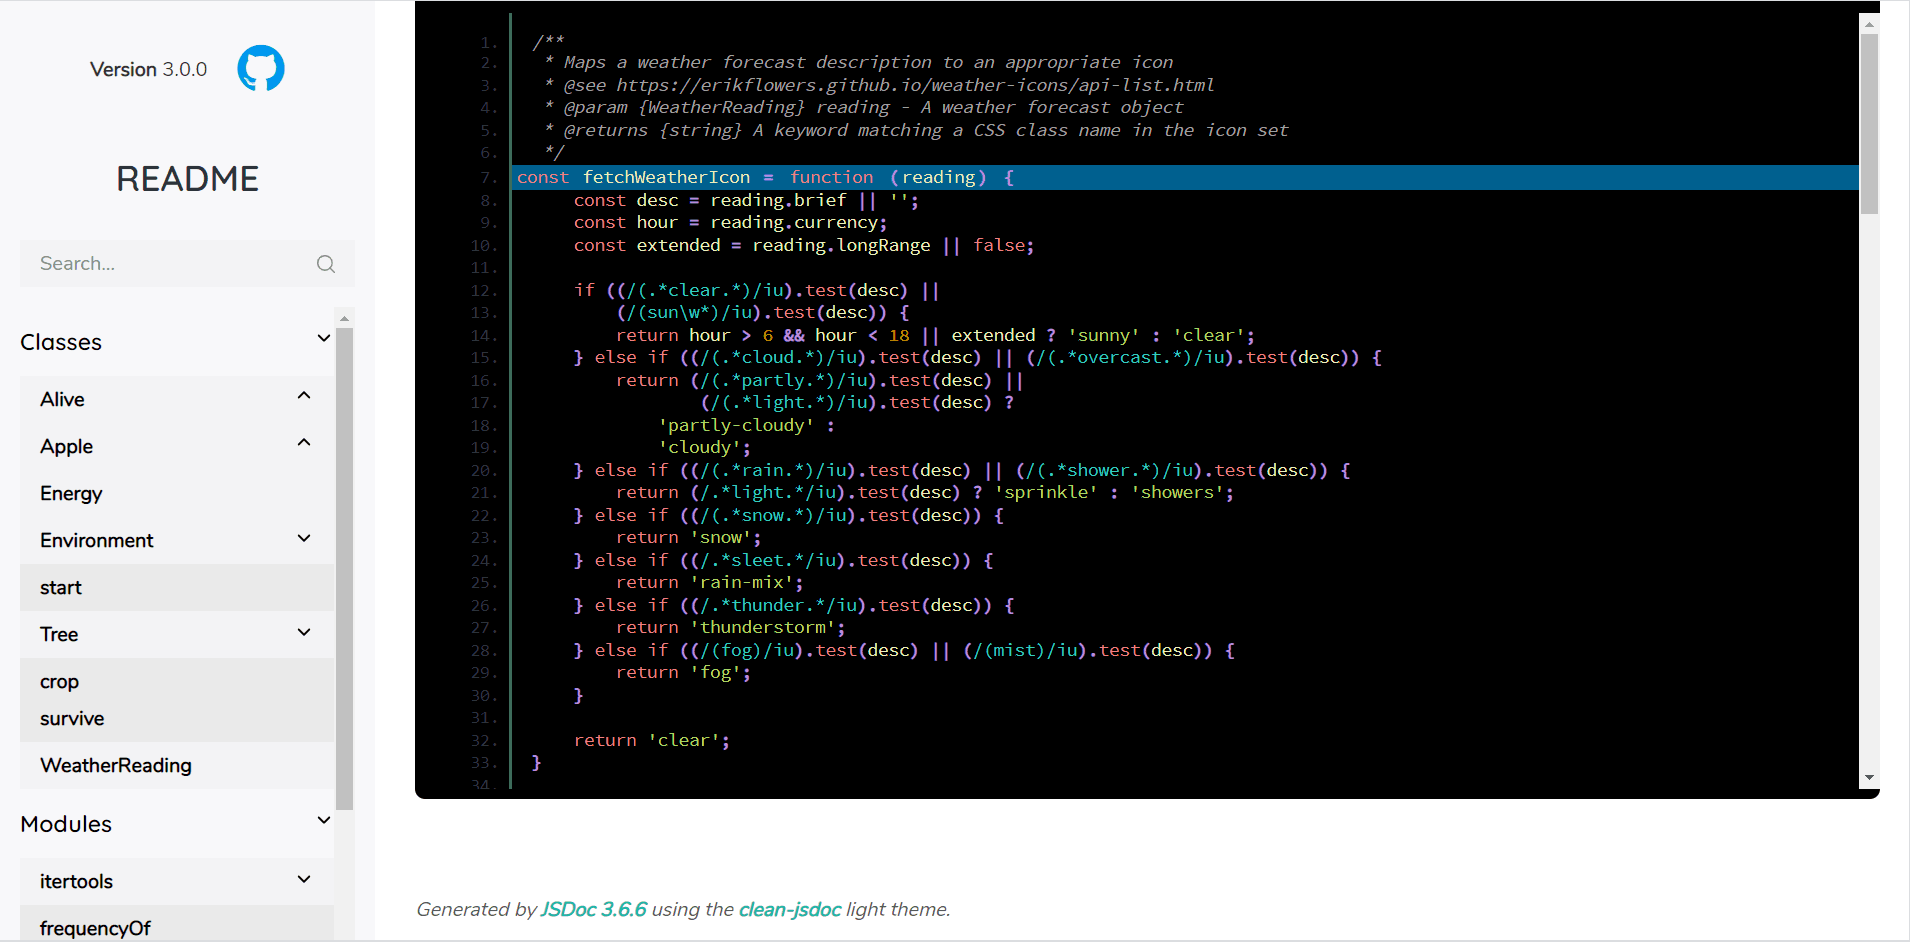
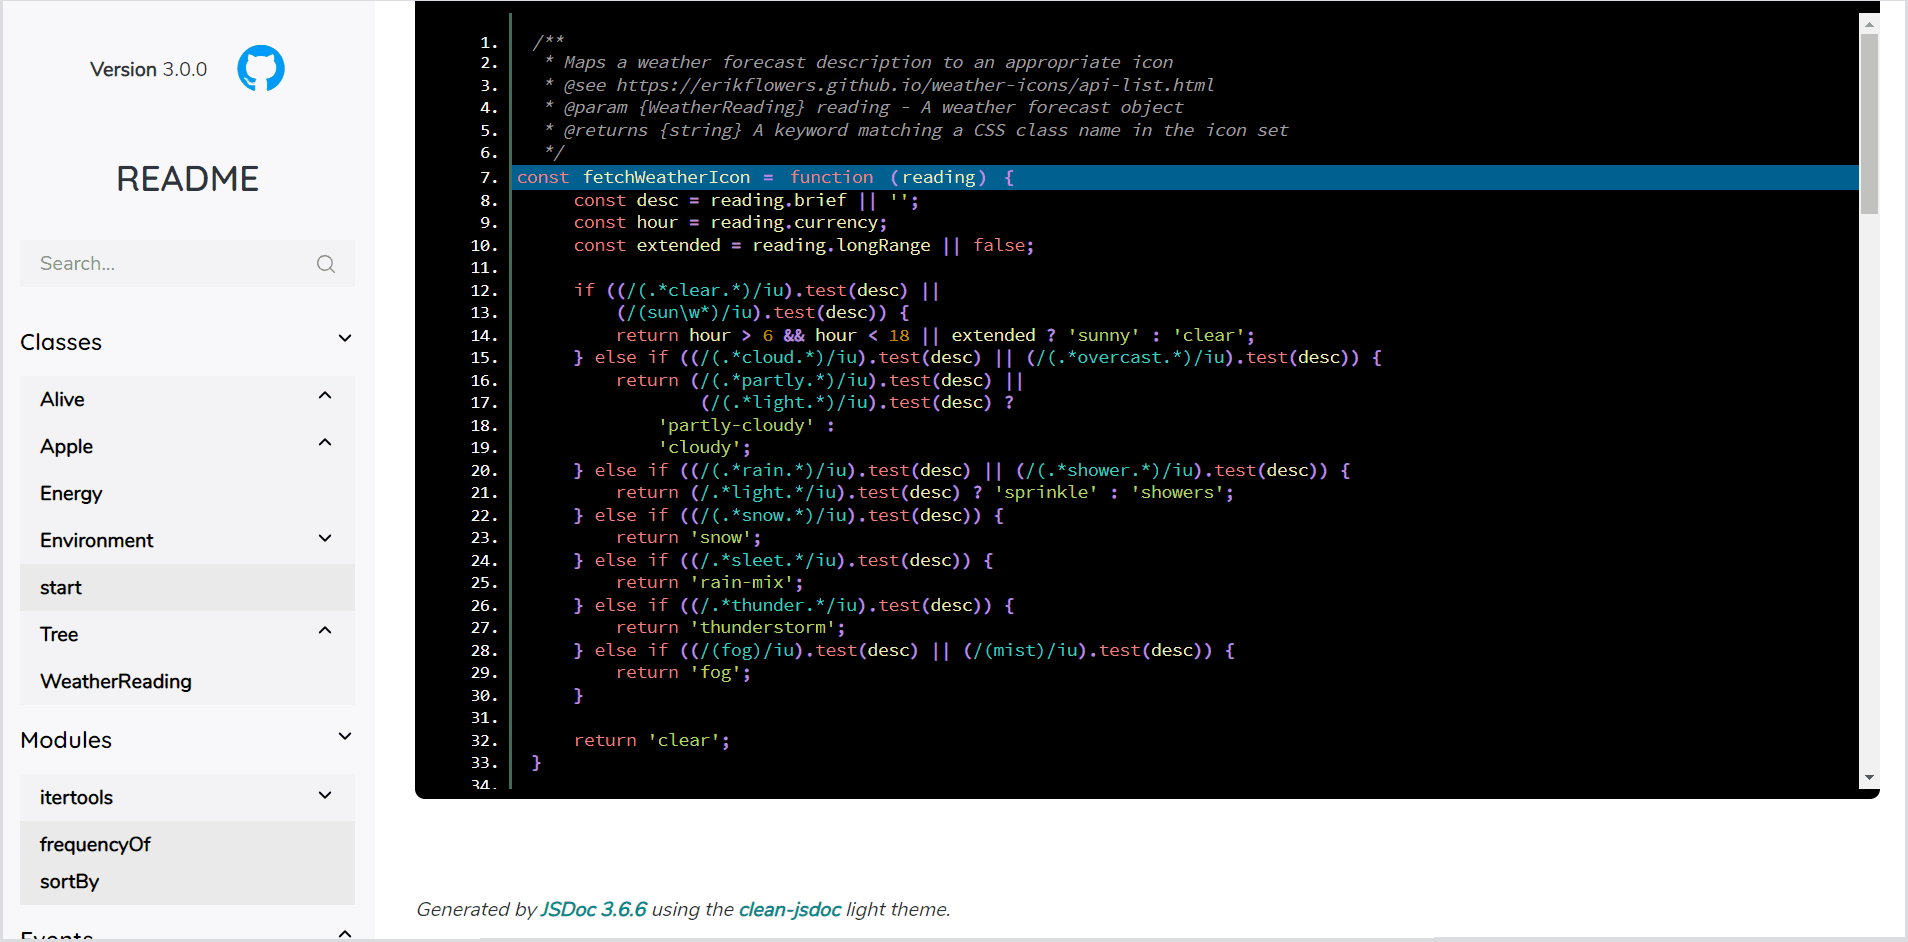
Release 3.0.1

diff --git a/static/styles/jsdoc-default.css b/static/styles/jsdoc-default.css
@@ -78,7 +78,7 @@ p {
     margin: 1rem 0;
 }
 
-article ul {
+article ul, .lone-param p {
     padding-left: 1rem;
 }
 
@@ -86,7 +86,7 @@ article ul:not(.see-links) {
     list-style: none;
 }
 
-article ul li::before {
+article ul li::before, .lone-param p::before {
     content: '\2014\a0';
     margin-right: 0.5rem;
 }
@@ -104,9 +104,9 @@ article ol {
 }
 
 .signature-attributes {
-    font-size: 60%;
     font-style: italic;
     font-weight: lighter;
+    padding-left: 0.2rem;
 }
 
 .ancestors a {
@@ -210,7 +210,6 @@ article ol {
 .code-caption {
     font-size: 107%;
     font-style: italic;
-    margin: 0;
 }
 
 .prettyprint {
@@ -220,6 +219,10 @@ article ol {
     overflow: auto;
     padding-top: 0.5rem;
     padding-bottom: 0.5rem;
+}
+
+.prettyprint.source, .prettyprint code {
+    background-color: #000;
 }
 
 .prettyprint.source {
@@ -268,6 +271,7 @@ article ol {
 }
 
 .prettyprint.linenums li {
+    color: #f8f8f9;
     min-height: 18px;
 }
 
@@ -325,6 +329,10 @@ article ol {
     white-space: nowrap;
 }
 
+.params td.description h4, .params td.description h5, .params td.description h6 {
+    margin-left: 0;
+}
+
 .params td.description>p:first-child, .props td.description>p:first-child {
     margin-top: 0;
     padding-top: 0;
@@ -348,11 +356,6 @@ dl.param-type {
 .param-type dd {
     font-family: 'code';
     font-size: 80%;
-}
-
-.lone-param {
-    display: block;
-    font-family: 'code';
 }
 
 code {

diff --git a/publish.js b/publish.js
@@ -497,10 +497,9 @@ function buildMemberNav(items, itemHeading, itemsSeen, linktoFn) {
                  */
                 const accordionClassName = methods.length ? '"accordion collapsed child"' : '"accordion-list"';
                 const accordionId = Math.floor(Math.random() * 10000000);
+                const linkTitle = linktoFn(item.longname, item.name.replace(/^(module:)/iu, ''));
 
                 itemsNav += `<li class=${accordionClassName} id=${accordionId}>`;
-
-                const linkTitle = linktoFn(item.longname, item.name.replace(/^module:/iu, ''));
 
                 if (methods.length) {
                     itemsNav += `<div class="accordion-heading child">${
@@ -524,8 +523,9 @@ function buildMemberNav(items, itemHeading, itemsSeen, linktoFn) {
                     methods.forEach(method => {
                         let name = method.longname.split('#');
                         const [first, last] = name;
+                        const identifier = last ? ` &rtrif; ${last}` : '';
 
-                        name = `${first} &rtrif; ${last}`;
+                        name = `${first.replace(/^(module:)\w+~/iu, '')}${identifier}`;
 
                         if (haveSearch) {
                             searchListArray.push(JSON.stringify({

diff --git a/static/styles/clean-jsdoc-theme-dark.css b/static/styles/clean-jsdoc-theme-dark.css
@@ -143,10 +143,6 @@ tt, code, kbd, samp {
     color: #fff;
 }
 
-.prettyprint.source, .prettyprint code {
-    background-color: #000;
-}
-
 .prettyprint.linenums li {
     border-left: 3px #3f6f6f solid;
 }

diff --git a/static/styles/clean-jsdoc-theme-light.css b/static/styles/clean-jsdoc-theme-light.css
@@ -172,10 +172,6 @@ blockquote {
     background: #000;
 }
 
-.prettyprint code {
-    background-color: #000;
-}
-
 .prettyprint.linenums li {
     border-left: 3px #3d6c5b solid;
 }

diff --git a/README.md b/README.md
@@ -11,10 +11,10 @@
 
 <div align="center">
 
-![light_code_example](https://rdipardo.github.io/clean-jsdoc-theme/img/light_code_example.png)
-![light_doc_page](https://rdipardo.github.io/clean-jsdoc-theme/img/light_doc_example.png)
-![dark_code_example](https://rdipardo.github.io/clean-jsdoc-theme/img/dark_code_example.png)
-![dark_doc_page](https://rdipardo.github.io/clean-jsdoc-theme/img/dark_doc_example.png)
+![light_code_example](https://raw.githubusercontent.com/rdipardo/clean-jsdoc-theme/gh-pages/img/light_code_example.png)
+![light_doc_page](https://raw.githubusercontent.com/rdipardo/clean-jsdoc-theme/gh-pages/img/light_doc_example.png)
+![dark_code_example](https://raw.githubusercontent.com/rdipardo/clean-jsdoc-theme/gh-pages/img/dark_code_example.png)
+![dark_doc_page](https://raw.githubusercontent.com/rdipardo/clean-jsdoc-theme/gh-pages/img/dark_doc_example.png)
 </div>
 
 <hr/>
@@ -34,7 +34,7 @@
 Install `jsdoc`:
 
 ```text
-npm i --save-dev jsdoc
+npm i --no-save jsdoc
 ```
 
 Install the template assets:

diff --git a/CHANGELOG.md b/CHANGELOG.md
@@ -1,3 +1,13 @@
+## 3.0.1
+
+### Fixed
+- clean up names of _"inner"_ module members in search results (**publish.js**)
+  and parameter descriptions (**tmpl/type.tmpl**)
+- make the _Properties_ subheading visible in tabular parameter descriptions
+- remove empty heading when a return value has no description
+- use consistent style for exceptions and fired events
+- make line numbers the same colour in both themes
+
 ## 3.0.0
 
 ### Changed
